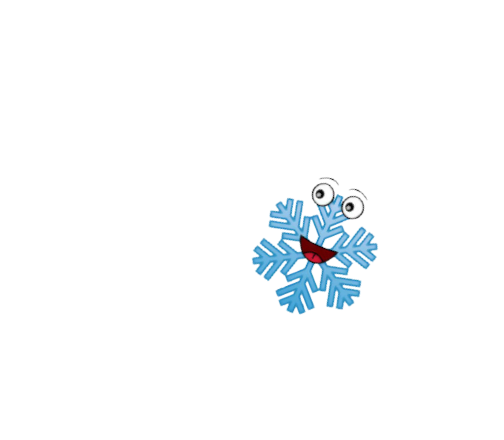
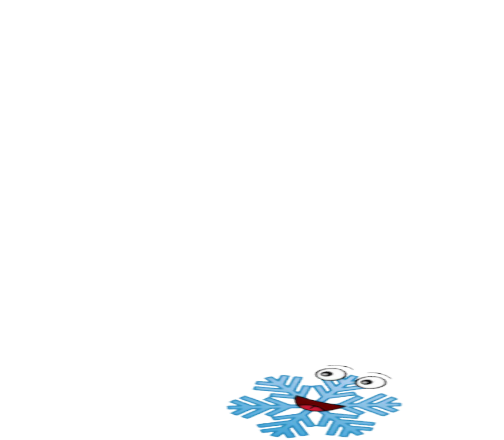
fix superscript; adjust grid layout; move snowflake

Changed region(s): [[0.506, 0.4136, 0.744, 0.7091], [0.4464, 0.8273, 0.8036, 1.0]]

diff --git a/index.html b/index.html
@@ -32,14 +32,16 @@ body {
 
 #wrapper {
 	width: 100%;
-	height: 70%;
+	height: 100%;
 	display: none;
 	grid-template-areas:
 		"time time time"
 		"dayE dateE year"
 		"dayJ dateJ ."
 		"weatherButtons weatherCanvas seasonE"
-		"weatherButtons weatherCanvas seasonJ";
+		"weatherButtons weatherCanvas seasonJ"
+		". weatherCanvas .";
+	grid-template-rows: 10% 15% 10% 20% 20% 10%;
 	justify-content: center;
 	column-gap: 4vw;
 }
@@ -106,9 +108,13 @@ body {
 #weatherButtons {
 	display: grid;
 	grid-template-columns: repeat(2, 1fr);
+	grid-template-rows: repeat(4, 6vh);
 	grid-area: weatherButtons;
-	padding: 30% 0;
 	gap: 1vh;
+	align-content: center;
+}
+#weatherButtons label {
+	height: 6vh;
 }
 input {
 	height: 100%;
